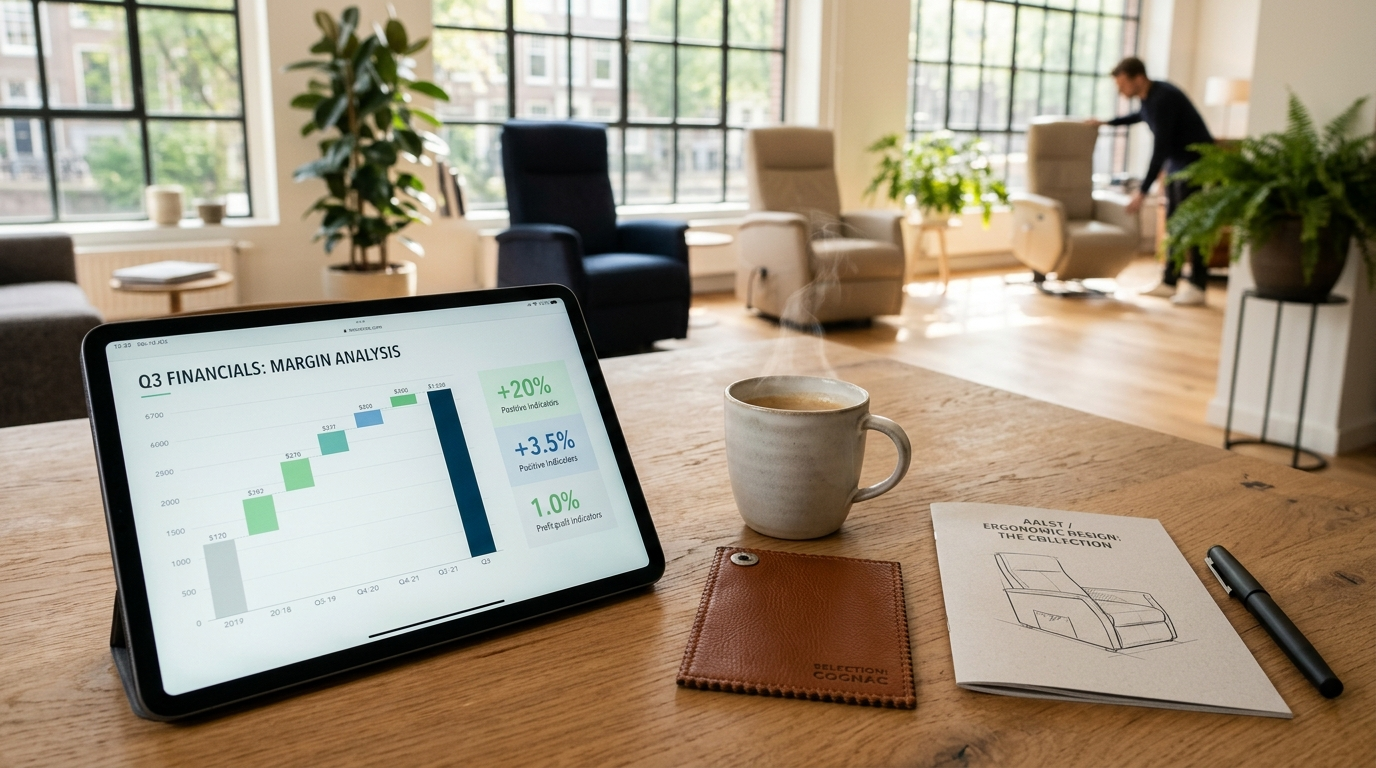
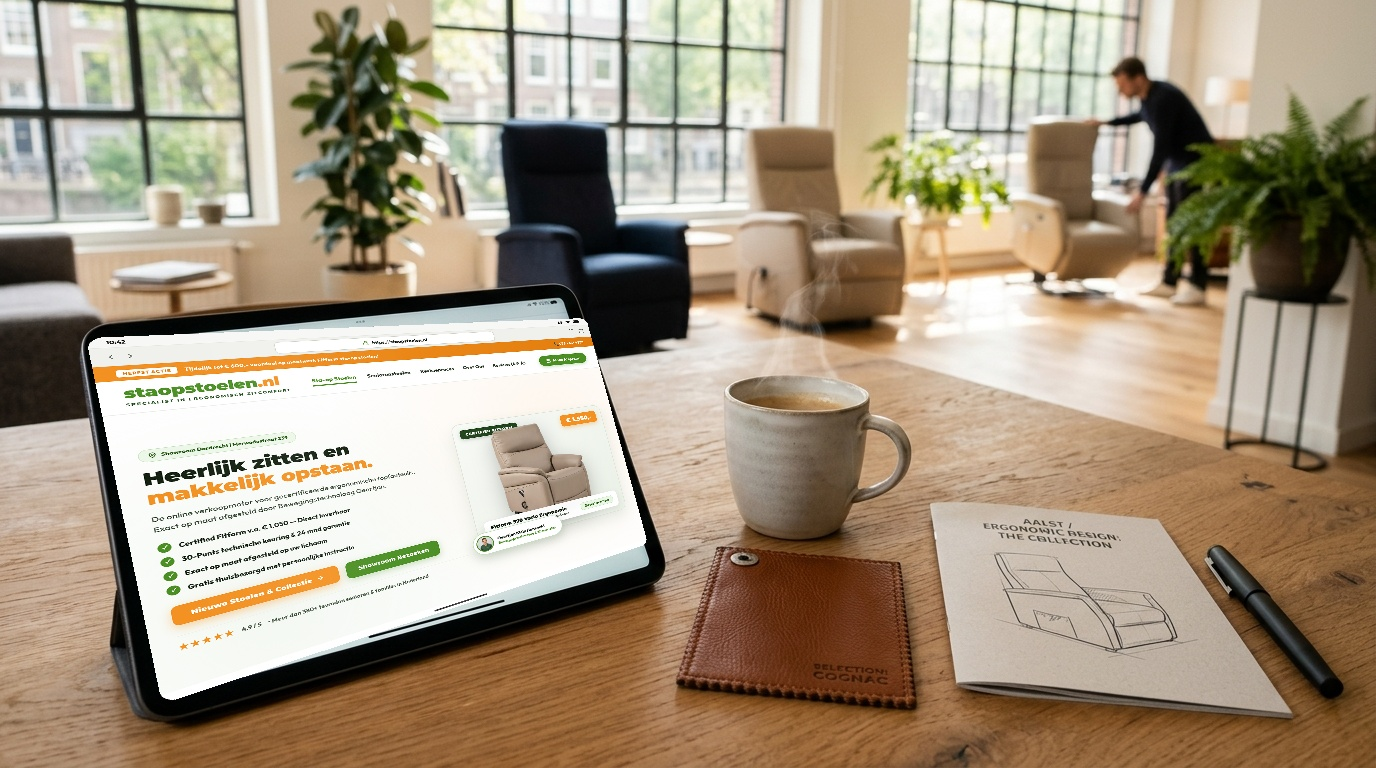
feat(video): update Scene 4 tablet visual to showcase staopstoelen.nl website as the sales motor

Changed region(s): [[0.0625, 0.4062, 0.4688, 0.9062]]

diff --git a/certified-fitform-video.html b/certified-fitform-video.html
@@ -2427,7 +2427,7 @@
         </tr>
         <tr>
           <td class="script-time">0:37 - 0:49</td>
-          <td>Eikenhouten adviestafel met tablet, staal cognac leer en waterval margegrafiek (€ 650 netto / € 7.800 mnd).</td>
+          <td>Eikenhouten adviestafel met tablet die de verkoopmotor staopstoelen.nl toont, staal cognac leer en waterval margegrafiek (€ 650 netto / € 7.800 mnd).</td>
           <td>"De bedrijfskundige cijfers zijn ijzersterk: na inkoop, transport en revisie blijft 650 euro netto marge over. Goed voor 7.800 euro cashflow per maand."</td>
           <td>42% Netto Marge</td>
         </tr>
